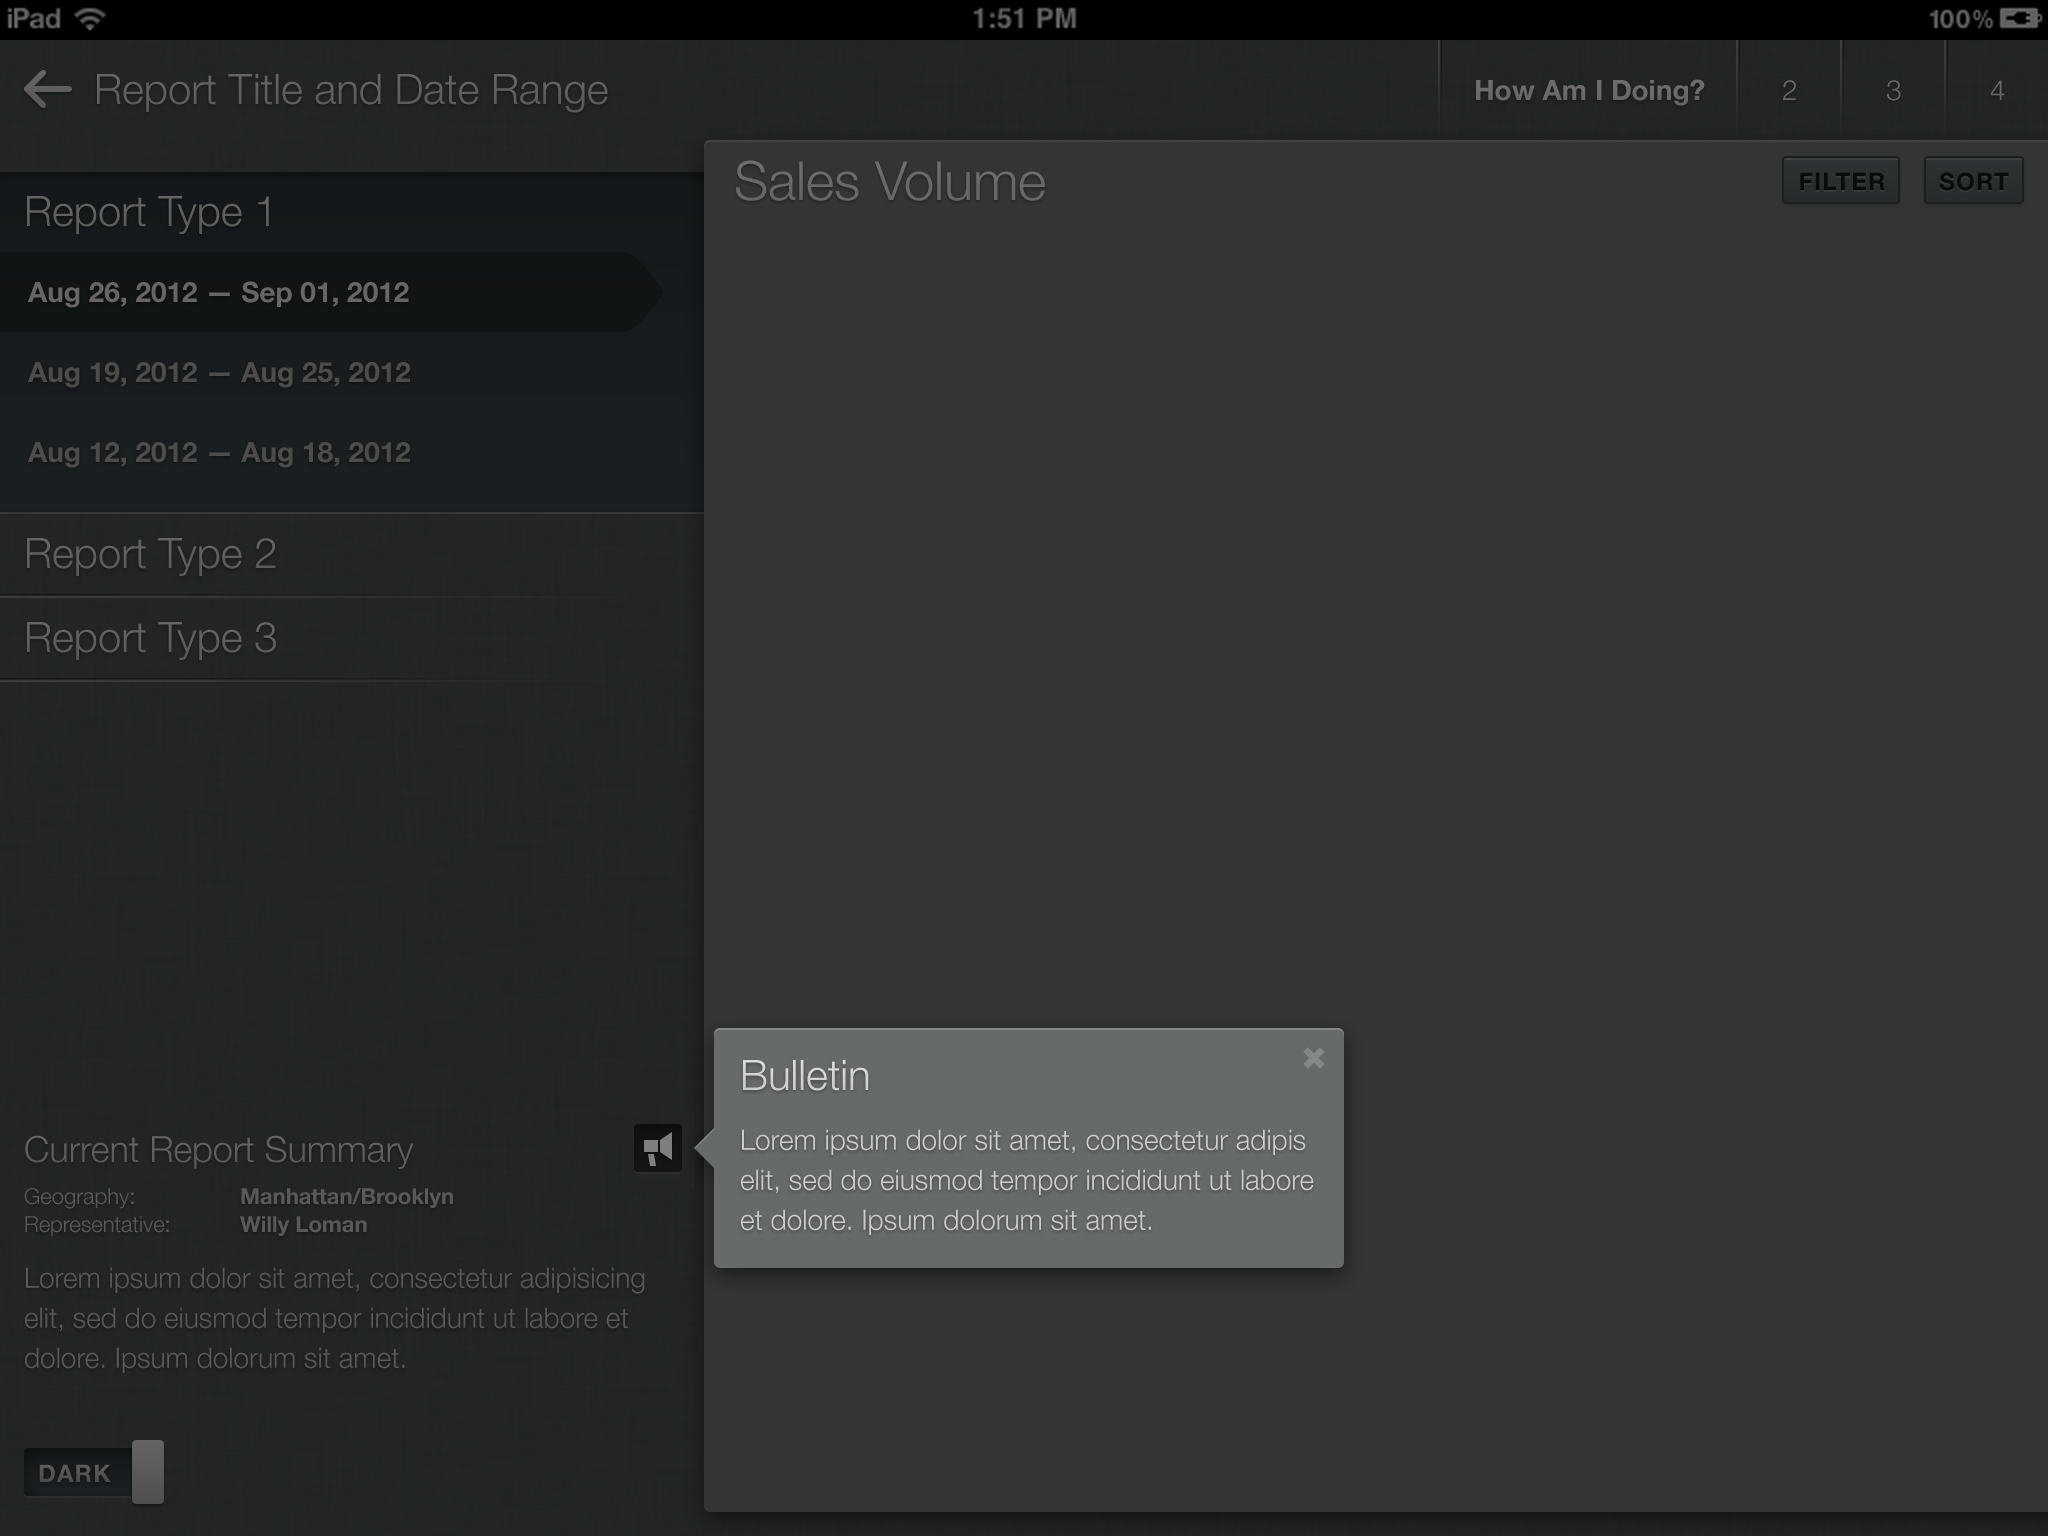
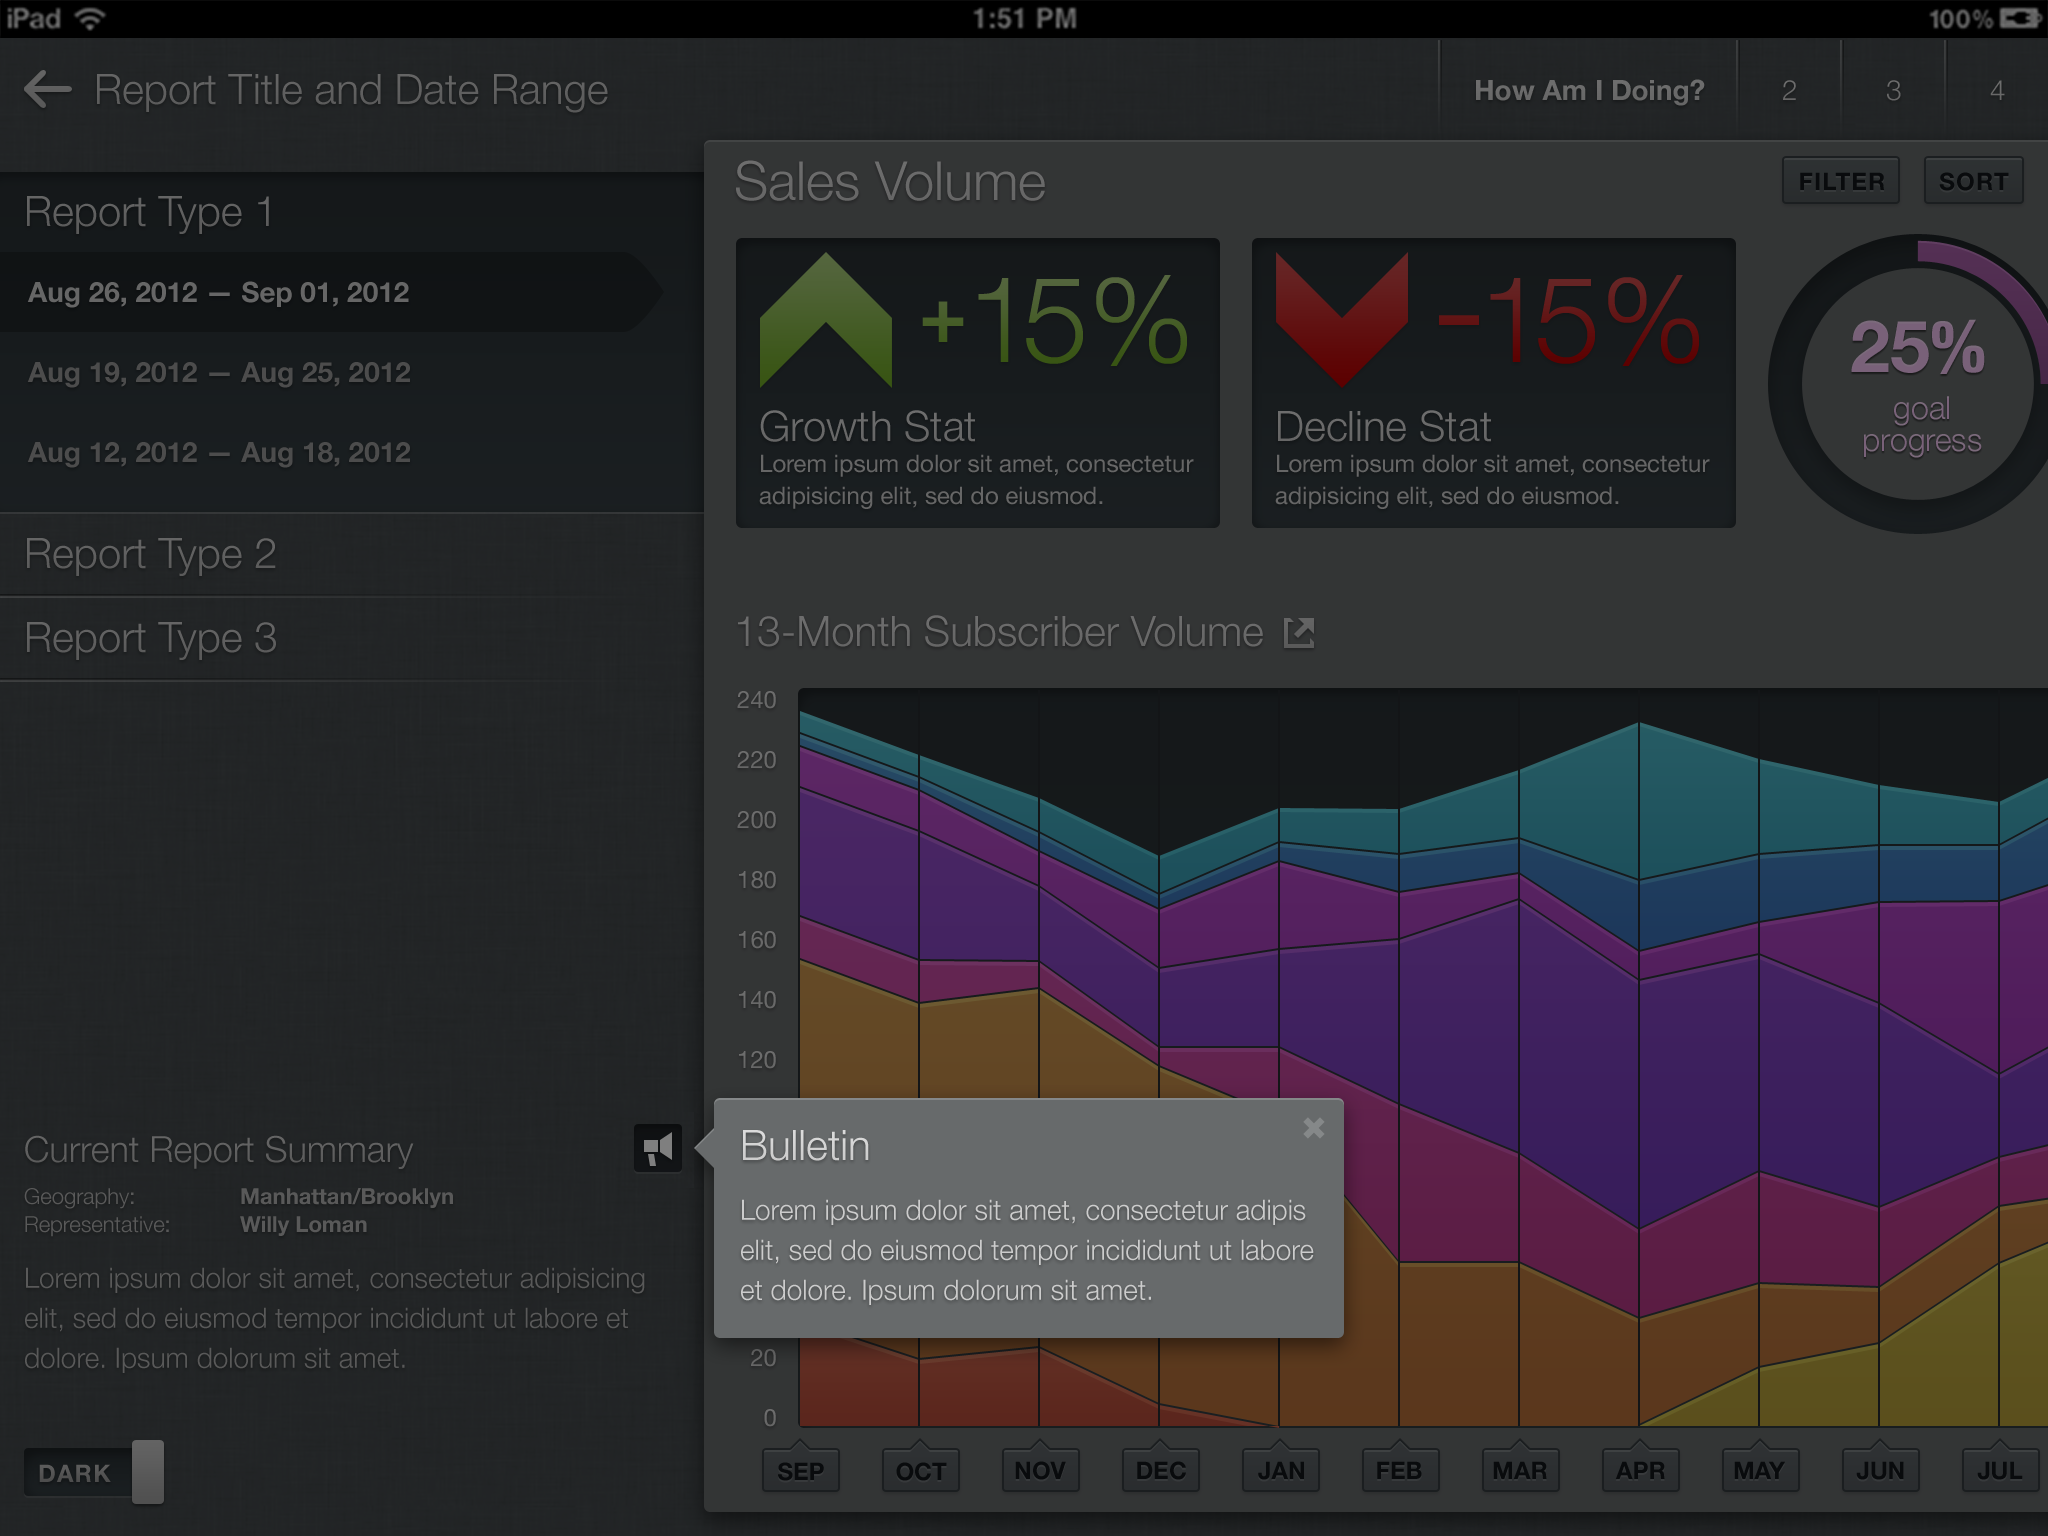
Updates

diff --git a/how-am-i-doing.html b/how-am-i-doing.html
@@ -12,7 +12,7 @@
 
 <a href="report-menu.html" style="top: 3px; left: 2px;"></a>
 <a href="where-should-i-focus.html" style="top: 3px; left: 873px;"></a>
-<a href="graph-detail.html" style="top: 360px; left: 30px;"></a>
+<a href="graph-detail.html" style="top: 275px; left: 288px;"></a>
 <img src="resources/how-am-i-doing.png" />
 
 <script src="resources/scripts.js"></script>

diff --git a/bulletin.html b/bulletin.html
@@ -10,7 +10,7 @@
 </head>
 <body>
 
-<a href="report-menu.html" style="top: 487px; left: 635px;"></a>
+<a href="report-menu.html" style="top: 522px; left: 635px;"></a>
 <img src="resources/bulletin.png" />
 
 <script src="resources/scripts.js"></script>
